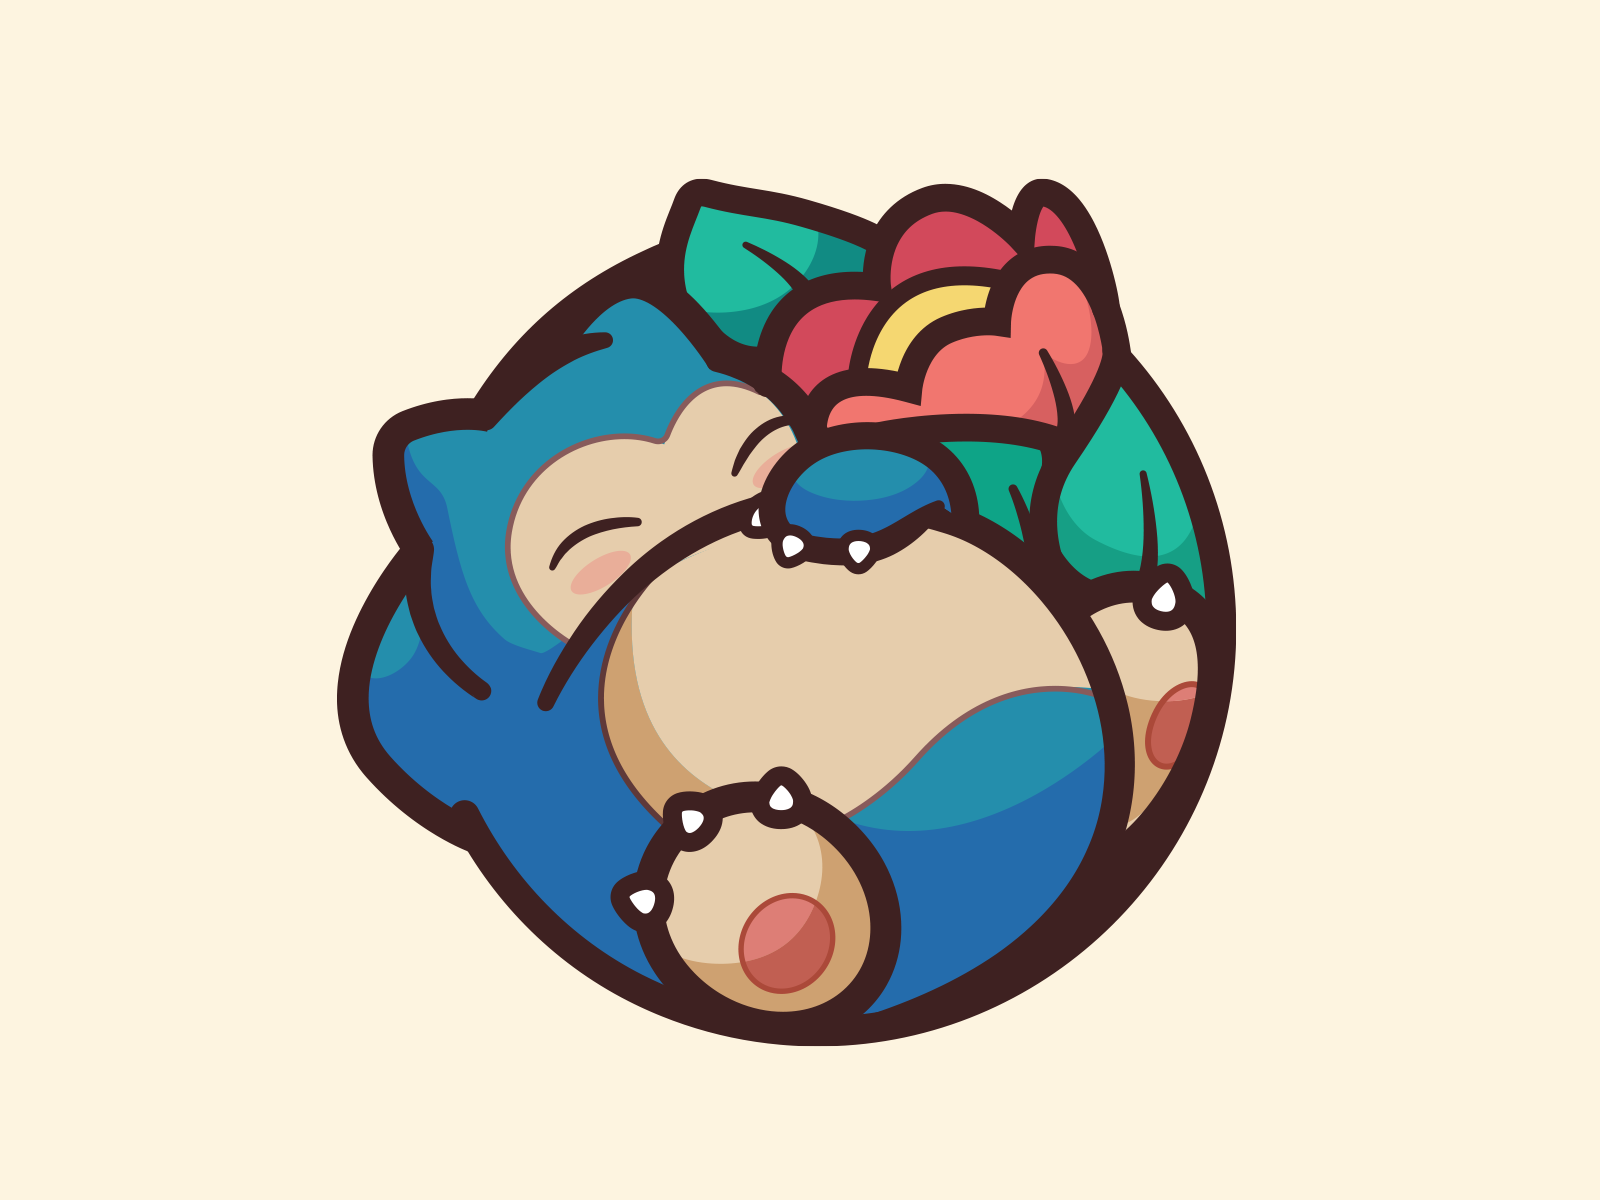
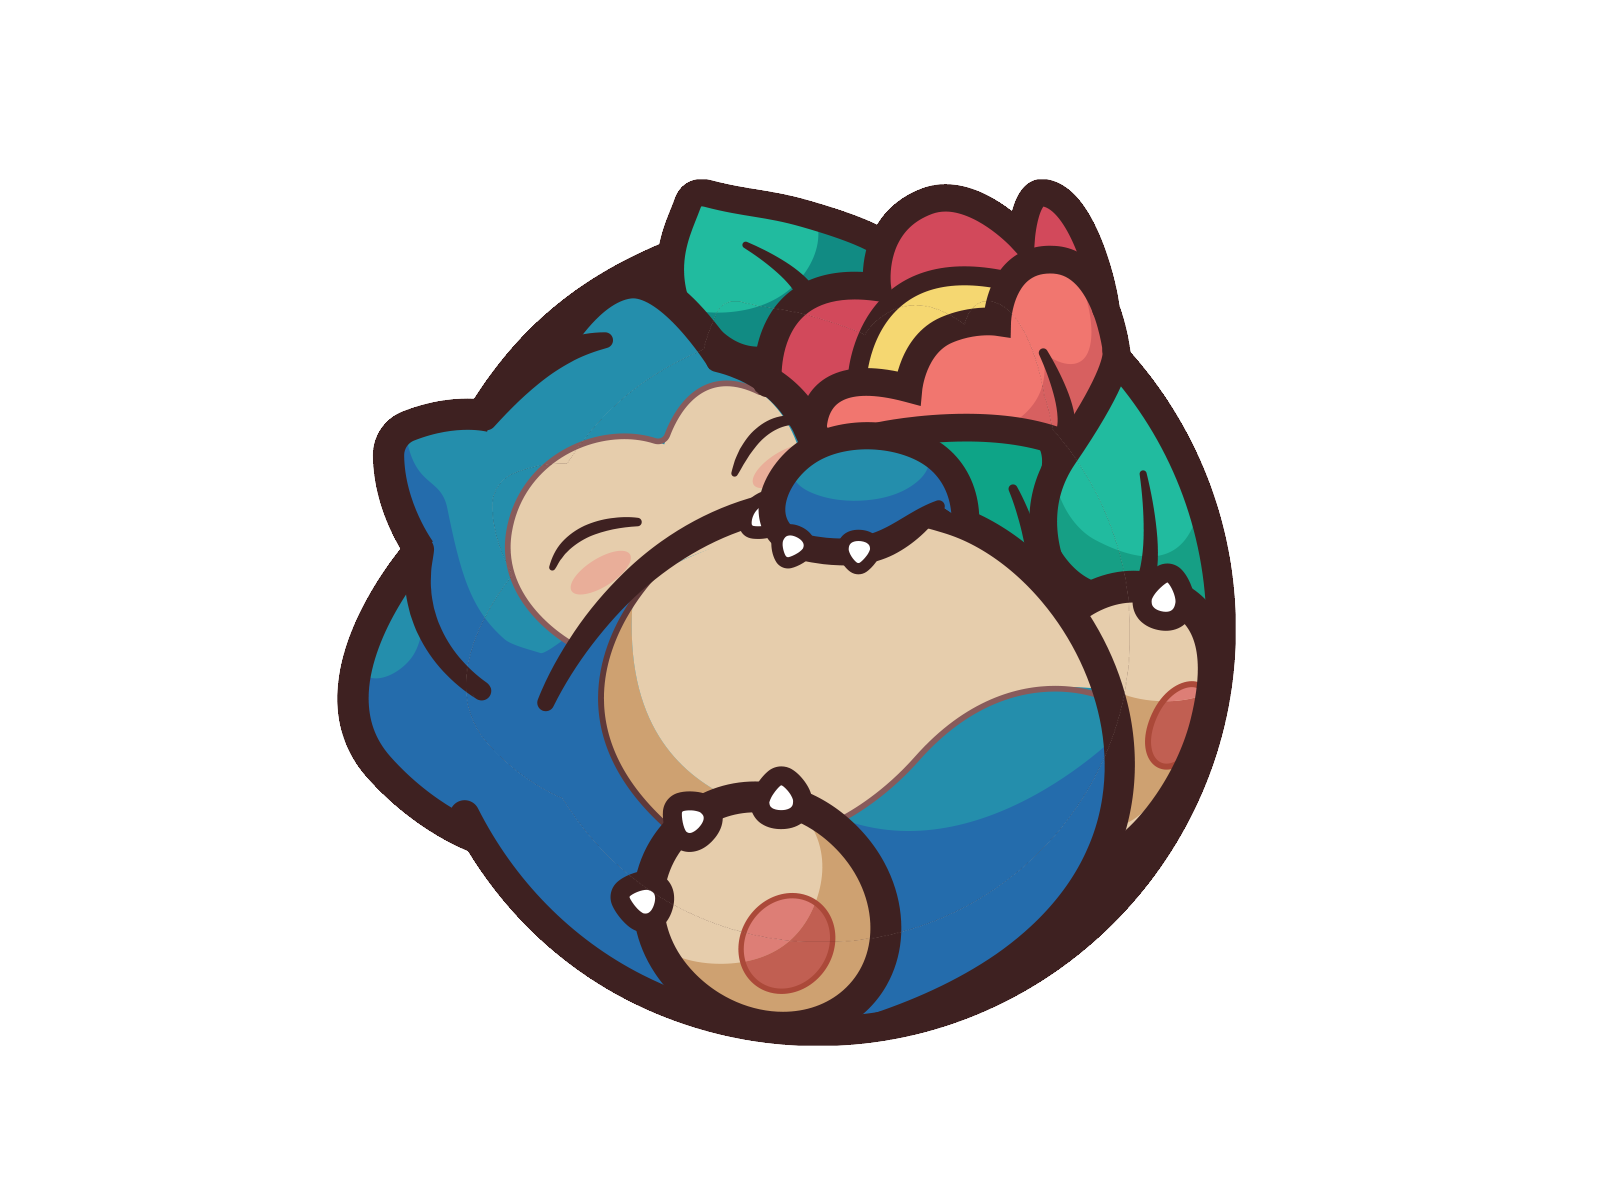
readme changes

diff --git a/README.md b/README.md
@@ -1,5 +1,5 @@
 # GA-Project2-Pokemon
-![img](static/images/image_processing20210626-7167-doy57.png)
+![img](static/images/image_processing20210626-7167-doy57small.png)
 ## ![img](static/images/icons8-pokeball-color-32.png) GA Project Number 2 ![img](static/images/icons8-pokeball-color-32.png)
 
 
